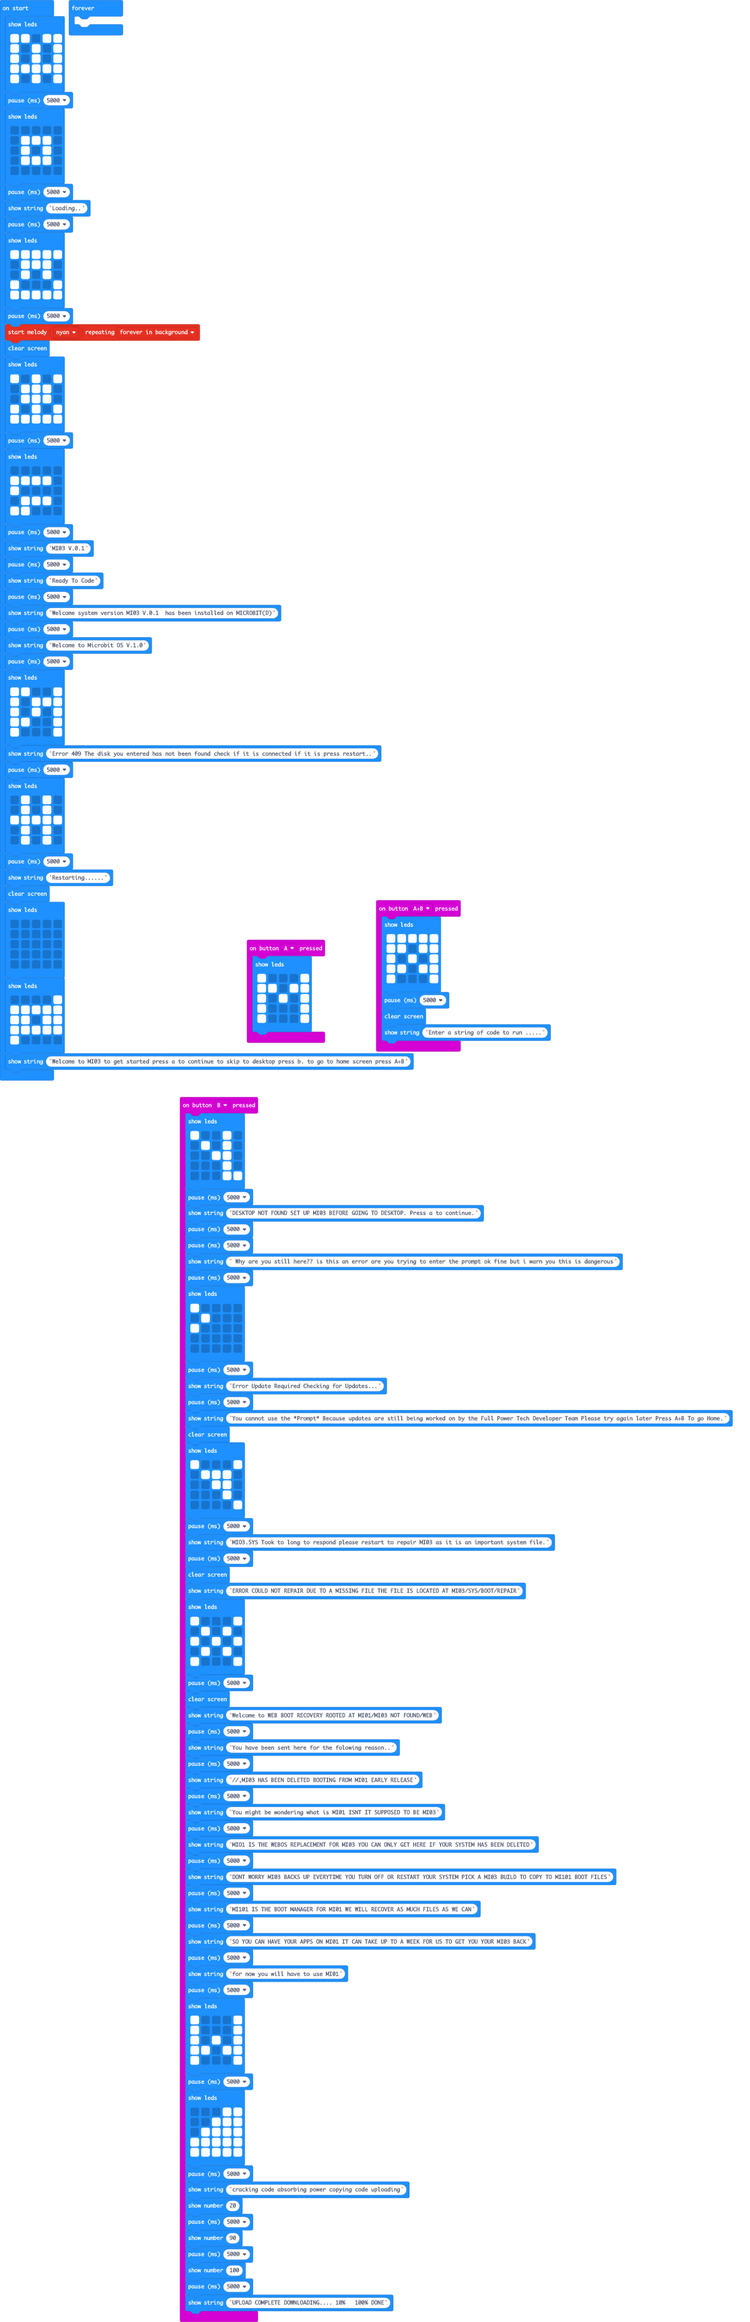
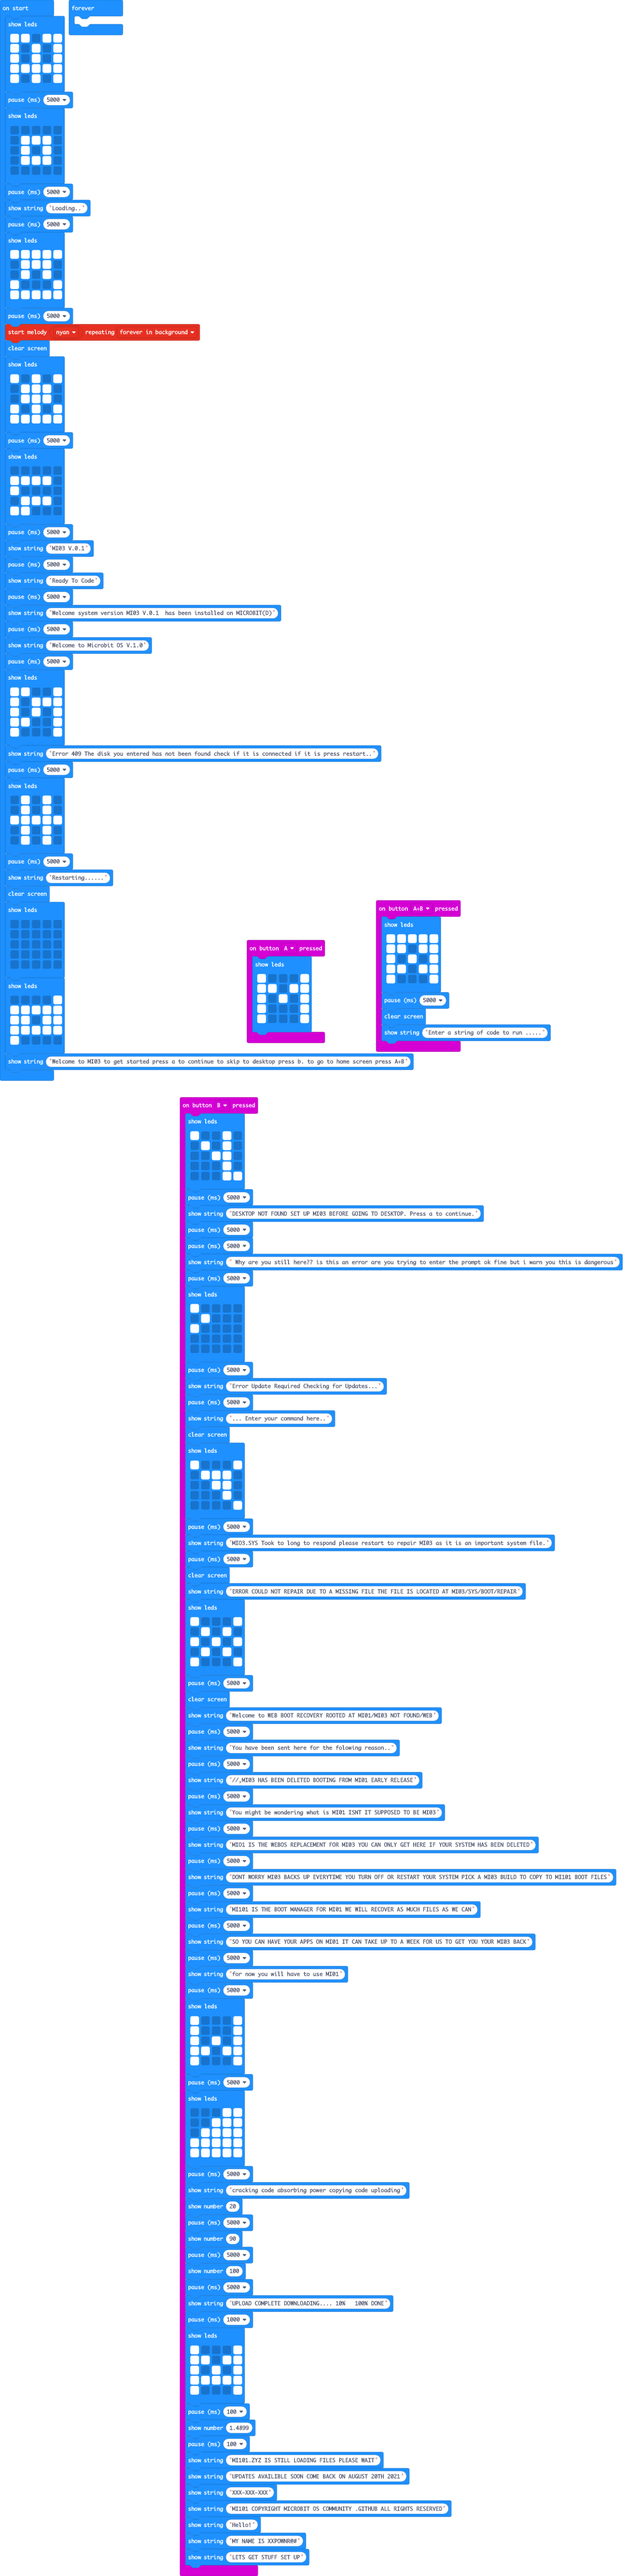
Added set up asistant for mi01 beta release

Changed region(s): [[0.0, 0.0, 0.9758, 1.0], [0.7928, 0.8068, 0.8233, 0.8379]]

diff --git a/main.ts b/main.ts
@@ -43,7 +43,7 @@ input.onButtonPressed(Button.B, function () {
     basic.pause(5000)
     basic.showString("Error Update Required Checking for Updates...")
     basic.pause(5000)
-    basic.showString("You cannot use the *Prompt* Because updates are still being worked on by the Full Power Tech Developer Team Please try again later Press A+B To go Home.")
+    basic.showString("... Enter your command here..")
     basic.clearScreen()
     basic.showLeds(`
         # . . . #
@@ -108,6 +108,24 @@ input.onButtonPressed(Button.B, function () {
     basic.showNumber(100)
     basic.pause(5000)
     basic.showString("UPLOAD COMPLETE DOWNLOADING.... 10%   100% DONE")
+    basic.pause(1000)
+    basic.showLeds(`
+        # . . . #
+        # # . # #
+        # . # . #
+        # # # # #
+        # . . . #
+        `)
+    basic.pause(100)
+    basic.showNumber(1.4899)
+    basic.pause(100)
+    basic.showString("MI101.ZYZ IS STILL LOADING FILES PLEASE WAIT")
+    basic.showString("UPDATES AVAILIBLE SOON COME BACK ON AUGUST 20TH 2021")
+    basic.showString("XXX-XXX-XXX")
+    basic.showString("MI101 COPYRIGHT MICROBIT OS COMMUNITY .GITHUB ALL RIGHTS RESERVED")
+    basic.showString("Hello!")
+    basic.showString("MY NAME IS XXPOWNR@#")
+    basic.showString("LETS GET STUFF SET UP")
 })
 basic.showLeds(`
     # # . # #
